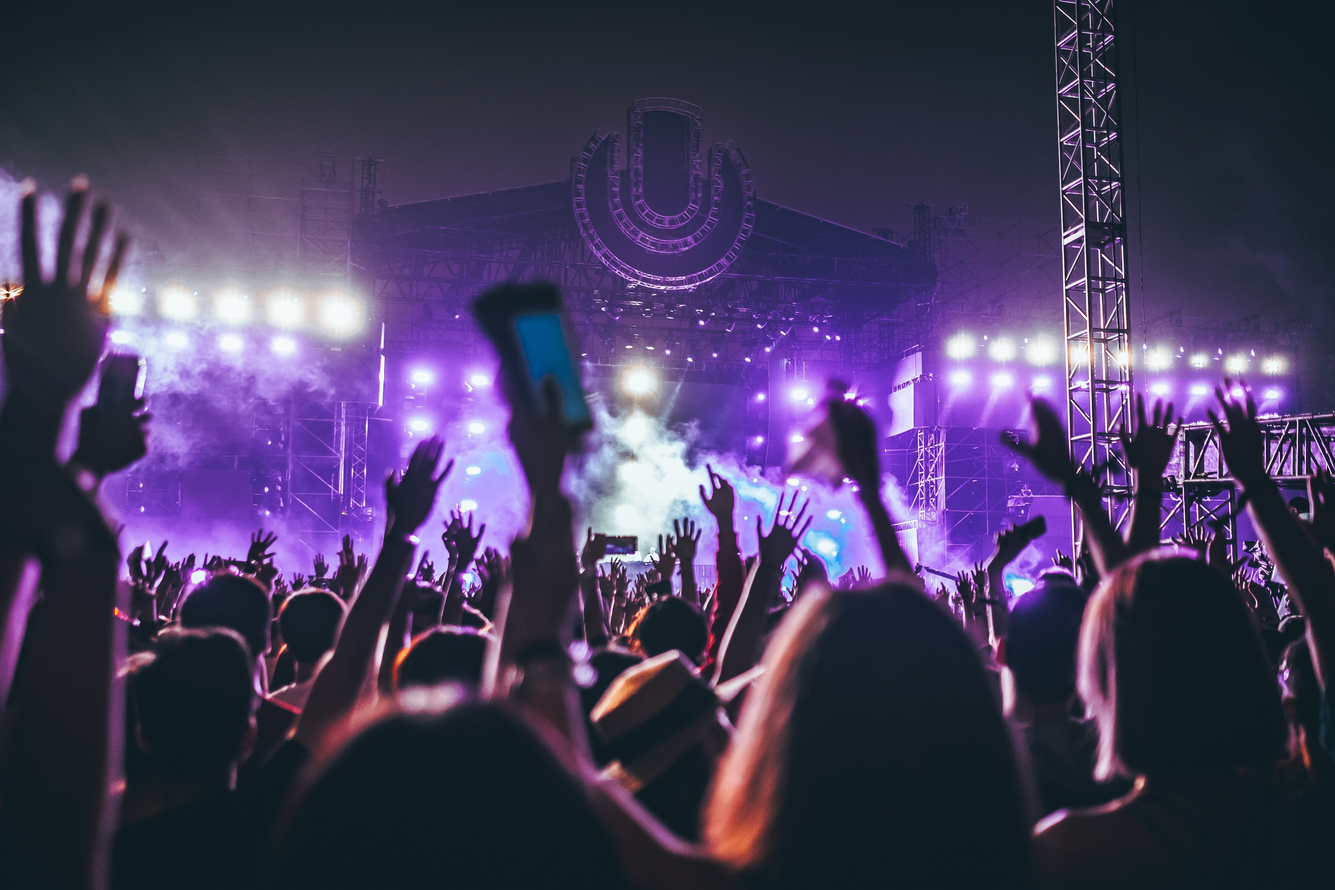
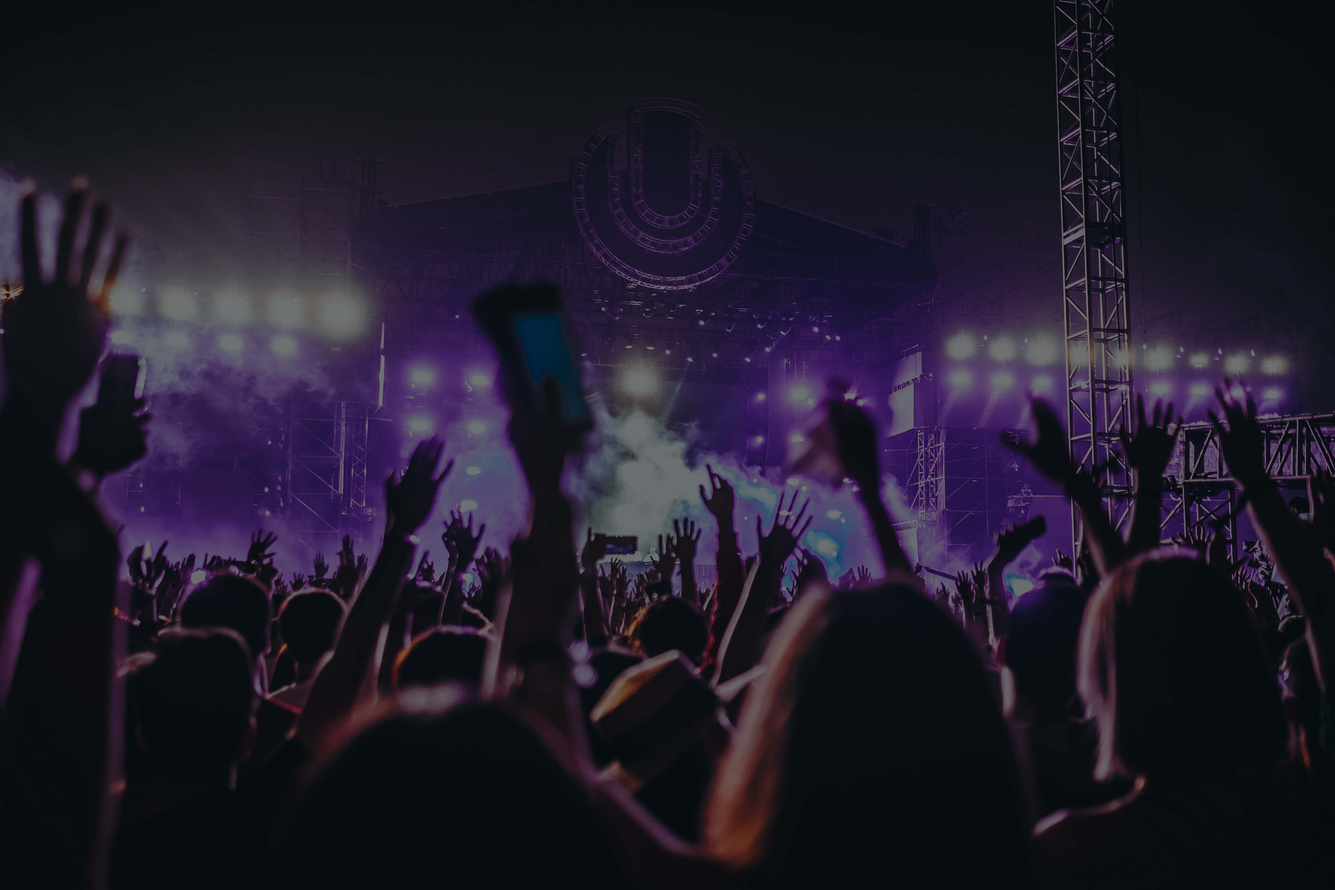
Filled out and styled Library component. Added link from library to album page

diff --git a/src/components/Landing.js b/src/components/Landing.js
@@ -1,37 +1,39 @@
 import React from "react";
+import "../styles/Landing.css";
 
 const Landing = () => (
-  <div id="landing-image">
-    <div id="landing-overlay">
-      <section className="landing ui container">
-        <h1 className="hero-title">Turn the music up!</h1>
-        <section className="ui stackable three column grid">
-          <div className="column point">
-            <h2 className="point-title">Choose your music</h2>
-            <h3 className="point-description">
-              The world is full of music; why should you have to listen to music
-              that someone else chose?
-            </h3>
-          </div>
+    <div id="landing-image">
+      <div id="landing-overlay">
+        <section className="landing ui container">
+          <h1 className="hero-title">Turn the music up!</h1>
+          <section className="ui stackable three column grid">
+            <div className="column point">
+              <h2 className="point-title">Choose your music</h2>
+              <h3 className="point-description">
+                The world is full of music; why should you have to listen to
+                music that someone else chose?
+              </h3>
+            </div>
 
-          <div className="column point">
-            <h2 className="point-title">Unlimited, streaming, ad-free</h2>
-            <h3 className="point-description">
-              No arbitrary limits. No distractions.
-            </h3>
-          </div>
+            <div className="column point">
+              <h2 className="point-title">Unlimited, streaming, ad-free</h2>
+              <h3 className="point-description">
+                No arbitrary limits. No distractions.
+              </h3>
+            </div>
 
-          <div className="column point">
-            <h2 className="point-title">Mobile-enabled</h2>
-            <h3 className="point-description">
-              Listen to your music on-the-go. This streaming service is
-              available on all mobile platforms.
-            </h3>
-          </div>
+            <div className="column point">
+              <h2 className="point-title">Mobile-enabled</h2>
+              <h3 className="point-description">
+                Listen to your music on-the-go. This streaming service is
+                available on all mobile platforms.
+              </h3>
+            </div>
+          </section>
         </section>
-      </section>
+      </div>
     </div>
-  </div>
+    
 );
 
 export default Landing;

diff --git a/src/data/albums.js b/src/data/albums.js
@@ -1,0 +1,27 @@
+export default [{
+    title: 'The Colors',
+    artist: 'Pablo Picasso',
+    releaseInfo: '1909 Spanish Records',
+    albumCover: '/assets/images/album_covers/01.jpg',
+    slug: 'the-colors',
+    songs: [
+        { title: 'Blue', duration: '161.71', audioSrc: '/assets/music/blue.mp3' },
+        { title: 'Green', duration: '103.96', audioSrc: '/assets/music/green.mp3' },
+        { title: 'Red', duration: '268.45', audioSrc: '/assets/music/red.mp3' },
+        { title: 'Pink', duration: '153.14', audioSrc: '/assets/music/pink.mp3' },
+        { title: 'Magenta', duration: '374.22', audioSrc: '/assets/music/magenta.mp3' }
+    ]
+  }, {
+      title: 'The Telephone',
+      artist: 'Guglielmo Marconi',
+      releaseInfo: '1909 EM',
+      albumCover: '/assets/images/album_covers/02.jpg',
+      slug: 'the-telephone',
+      songs: [
+        { title: 'Blue', duration: '161.71', audioSrc: '/assets/music/blue.mp3' },
+        { title: 'Green', duration: '103.96', audioSrc: '/assets/music/green.mp3' },
+        { title: 'Red', duration: '268.45', audioSrc: '/assets/music/red.mp3' },
+        { title: 'Pink', duration: '153.14', audioSrc: '/assets/music/pink.mp3' },
+        { title: 'Magenta', duration: '374.22', audioSrc: '/assets/music/magenta.mp3' }
+      ]
+  }];

diff --git a/src/components/Library.js b/src/components/Library.js
@@ -1,9 +1,37 @@
-import React from "react";
+import React, { Component } from "react";
+import { Link } from "react-router-dom";
+import albumData from "../data/albums";
+import "../styles/Library.css";
 
-const Library = () => (
-  <div className="ui container">
-    <section className="library">Library page will go here.</section>
-  </div>
-);
+class Library extends Component {
+  constructor(props) {
+    super(props);
+
+    this.state = { albums: albumData };
+  }
+
+  render() {
+    return (
+      <div className="ui container">
+        <section className="library ui stackable two column grid centered">
+          {this.state.albums.map((album, index) => (
+            <Link to={`/album/${album.slug}`} className="album" key={index}>
+              <img
+                className="album-cover"
+                src={album.albumCover}
+                alt={album.title}
+              />
+              <h1 className="album-title">{album.title}</h1>
+              <h2 className="album-artist">{album.artist}</h2>
+              <div className="album-songs-number">
+                {album.songs.length} songs
+              </div>
+            </Link>
+          ))}
+        </section>
+      </div>
+    );
+  }
+}
 
 export default Library;

diff --git a/src/styles/Landing.css b/src/styles/Landing.css
@@ -1,17 +1,10 @@
-/* NAVIGATION */
-#logo {
-  font-size: 28px;
-}
-
-.nav-item {
-  font-family: "Metrophobic", sans-serif;
-}
-
 /* LANDING PAGE */
 
+/*
 body {
   overflow: hidden;
 }
+*/
 
 .App {
   text-align: center;
@@ -24,7 +17,7 @@ h1 {
 }
 
 #landing-image {
-  background: url(./assets/img/concert-photo.jpg);
+  background: url(../assets/img/concert-photo-overlay.jpg);
   background-repeat: no-repeat;
   background-size: cover;
   background-attachment: fixed;
@@ -33,15 +26,7 @@ h1 {
   overflow: hidden;
 }
 
-#landing-overlay {
-  position: absolute;
-  top: 0;
-  left: 0;
-  width: 100%;
-  min-height: 110vh;
-  background: rgba(0, 0, 0, 0.6);
-  padding-top: 100px;
-}
+
 
 h2 {
   font-family: "Metrophobic", sans-serif;
@@ -56,5 +41,4 @@ h3 {
   font-family: "Metrophobic", sans-serif;
   margin-top: 0;
   font-size: 1.2rem;
-  
 }

diff --git a/src/App.js b/src/App.js
@@ -1,6 +1,6 @@
 import React, { Component } from "react";
 import { Route, Link } from "react-router-dom";
-import "./App.css";
+import "./styles/App.css";
 import Album from "./components/Album";
 import Landing from "./components/Landing";
 import Library from "./components/Library";
@@ -41,8 +41,9 @@ class App extends Component {
         <main>
           <Route exact path="/" component={Landing} />
           <Route path="/library" component={Library} />
-          <Route path="/album" component={Album} />
+          <Route path="/album/:slug" component={Album} />
         </main>
+    
       </div>
     );
   }

diff --git a/src/styles/Library.css b/src/styles/Library.css
@@ -1,0 +1,30 @@
+.album {
+  padding: 0px;
+  padding-top: 100px;
+}
+
+.album-cover {
+  width: 250px;
+}
+
+.album-title {
+  font-family: "Metrophobic", sans-serif;
+  color: black;
+  font-size: 1.75rem;
+  margin: 5px 0;
+  padding: 0px;
+}
+
+.album-artist {
+  font-family: "Metrophobic", sans-serif;
+  color: black;
+  font-size: 1.5rem;
+  margin: 5px 0;
+  padding: 0px;
+}
+
+.album-songs-number {
+  font-family: "Metrophobic", sans-serif;
+  color: black;
+  font-size: 1.25rem;
+}

diff --git a/src/components/Album.js b/src/components/Album.js
@@ -1,9 +1,13 @@
-import React from "react";
+import React, { Component } from "react";
 
-const Album = () => (
-  <div className="ui container">
-    <section className="album">Album page will go here.</section>
-  </div>
-);
+class Album extends Component {
+  render() {
+    return (
+      <div className="ui container">
+        <section className="album">{this.props.match.params.slug} Album page will go here.</section>
+      </div>
+    );
+  }
+}
 
 export default Album;

diff --git a/src/styles/App.css b/src/styles/App.css
@@ -1,0 +1,9 @@
+/* NAVIGATION */
+
+#logo {
+  font-size: 28px;
+}
+
+.nav-item {
+  font-family: "Metrophobic", sans-serif;
+}
